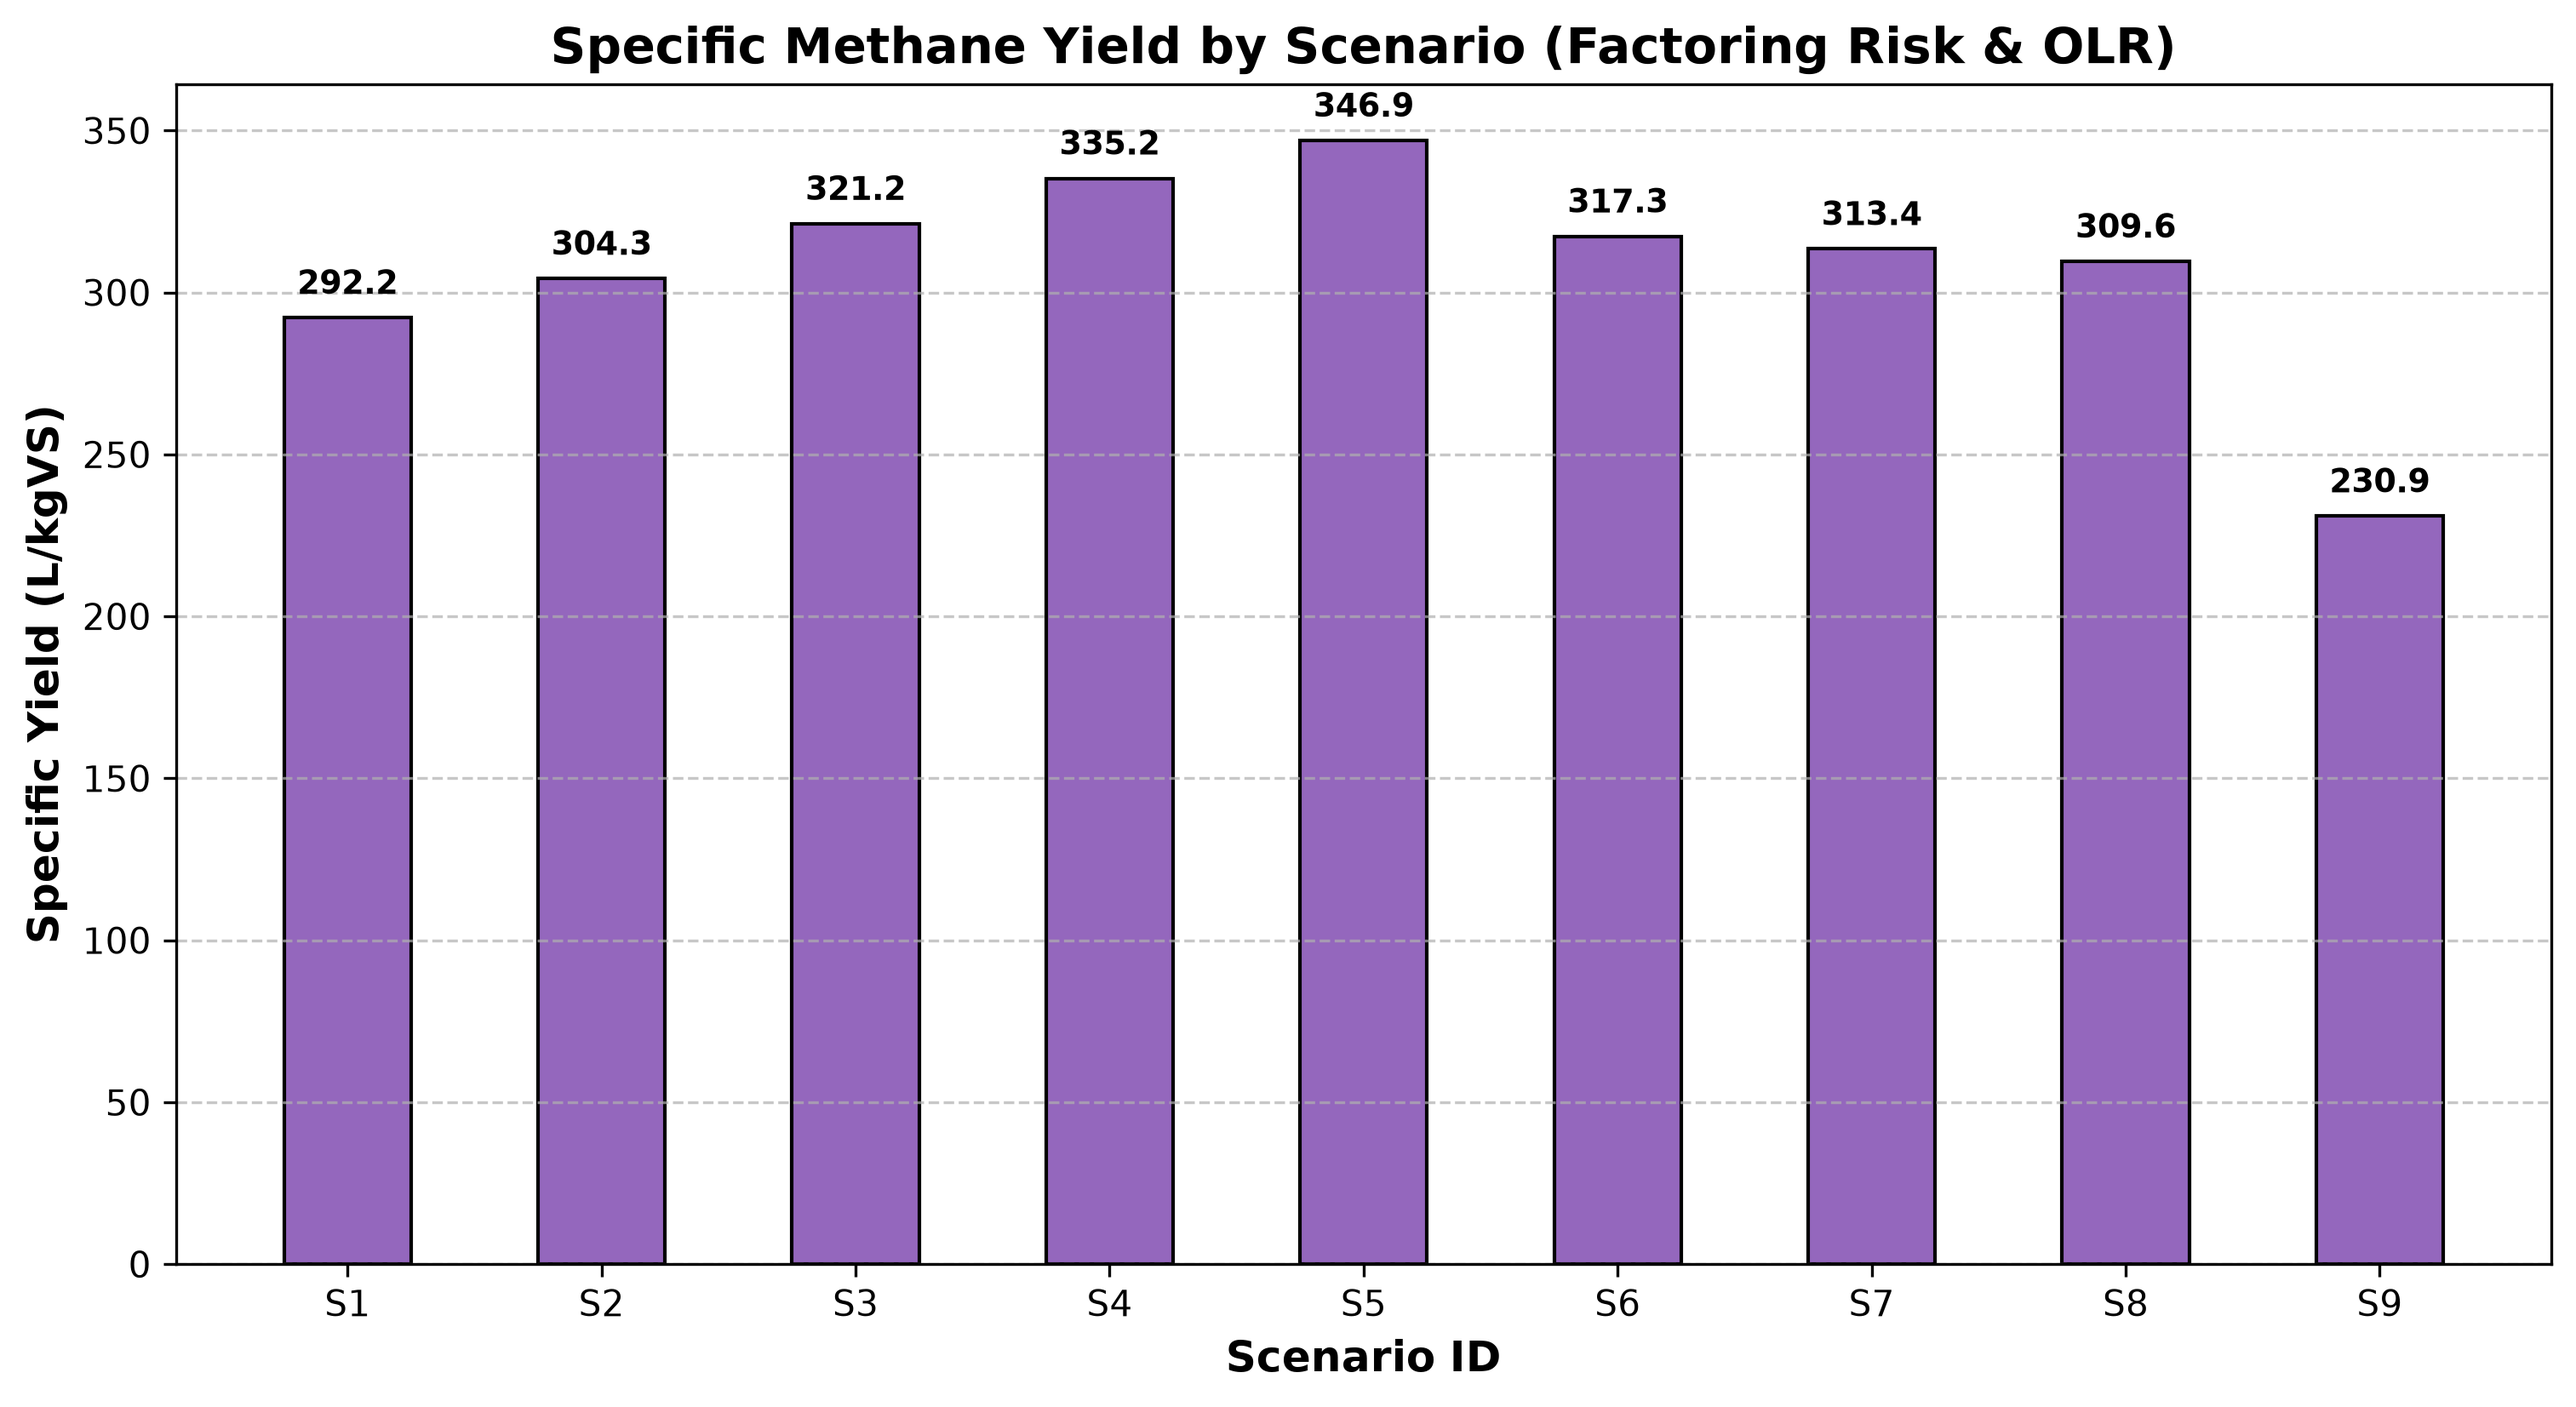
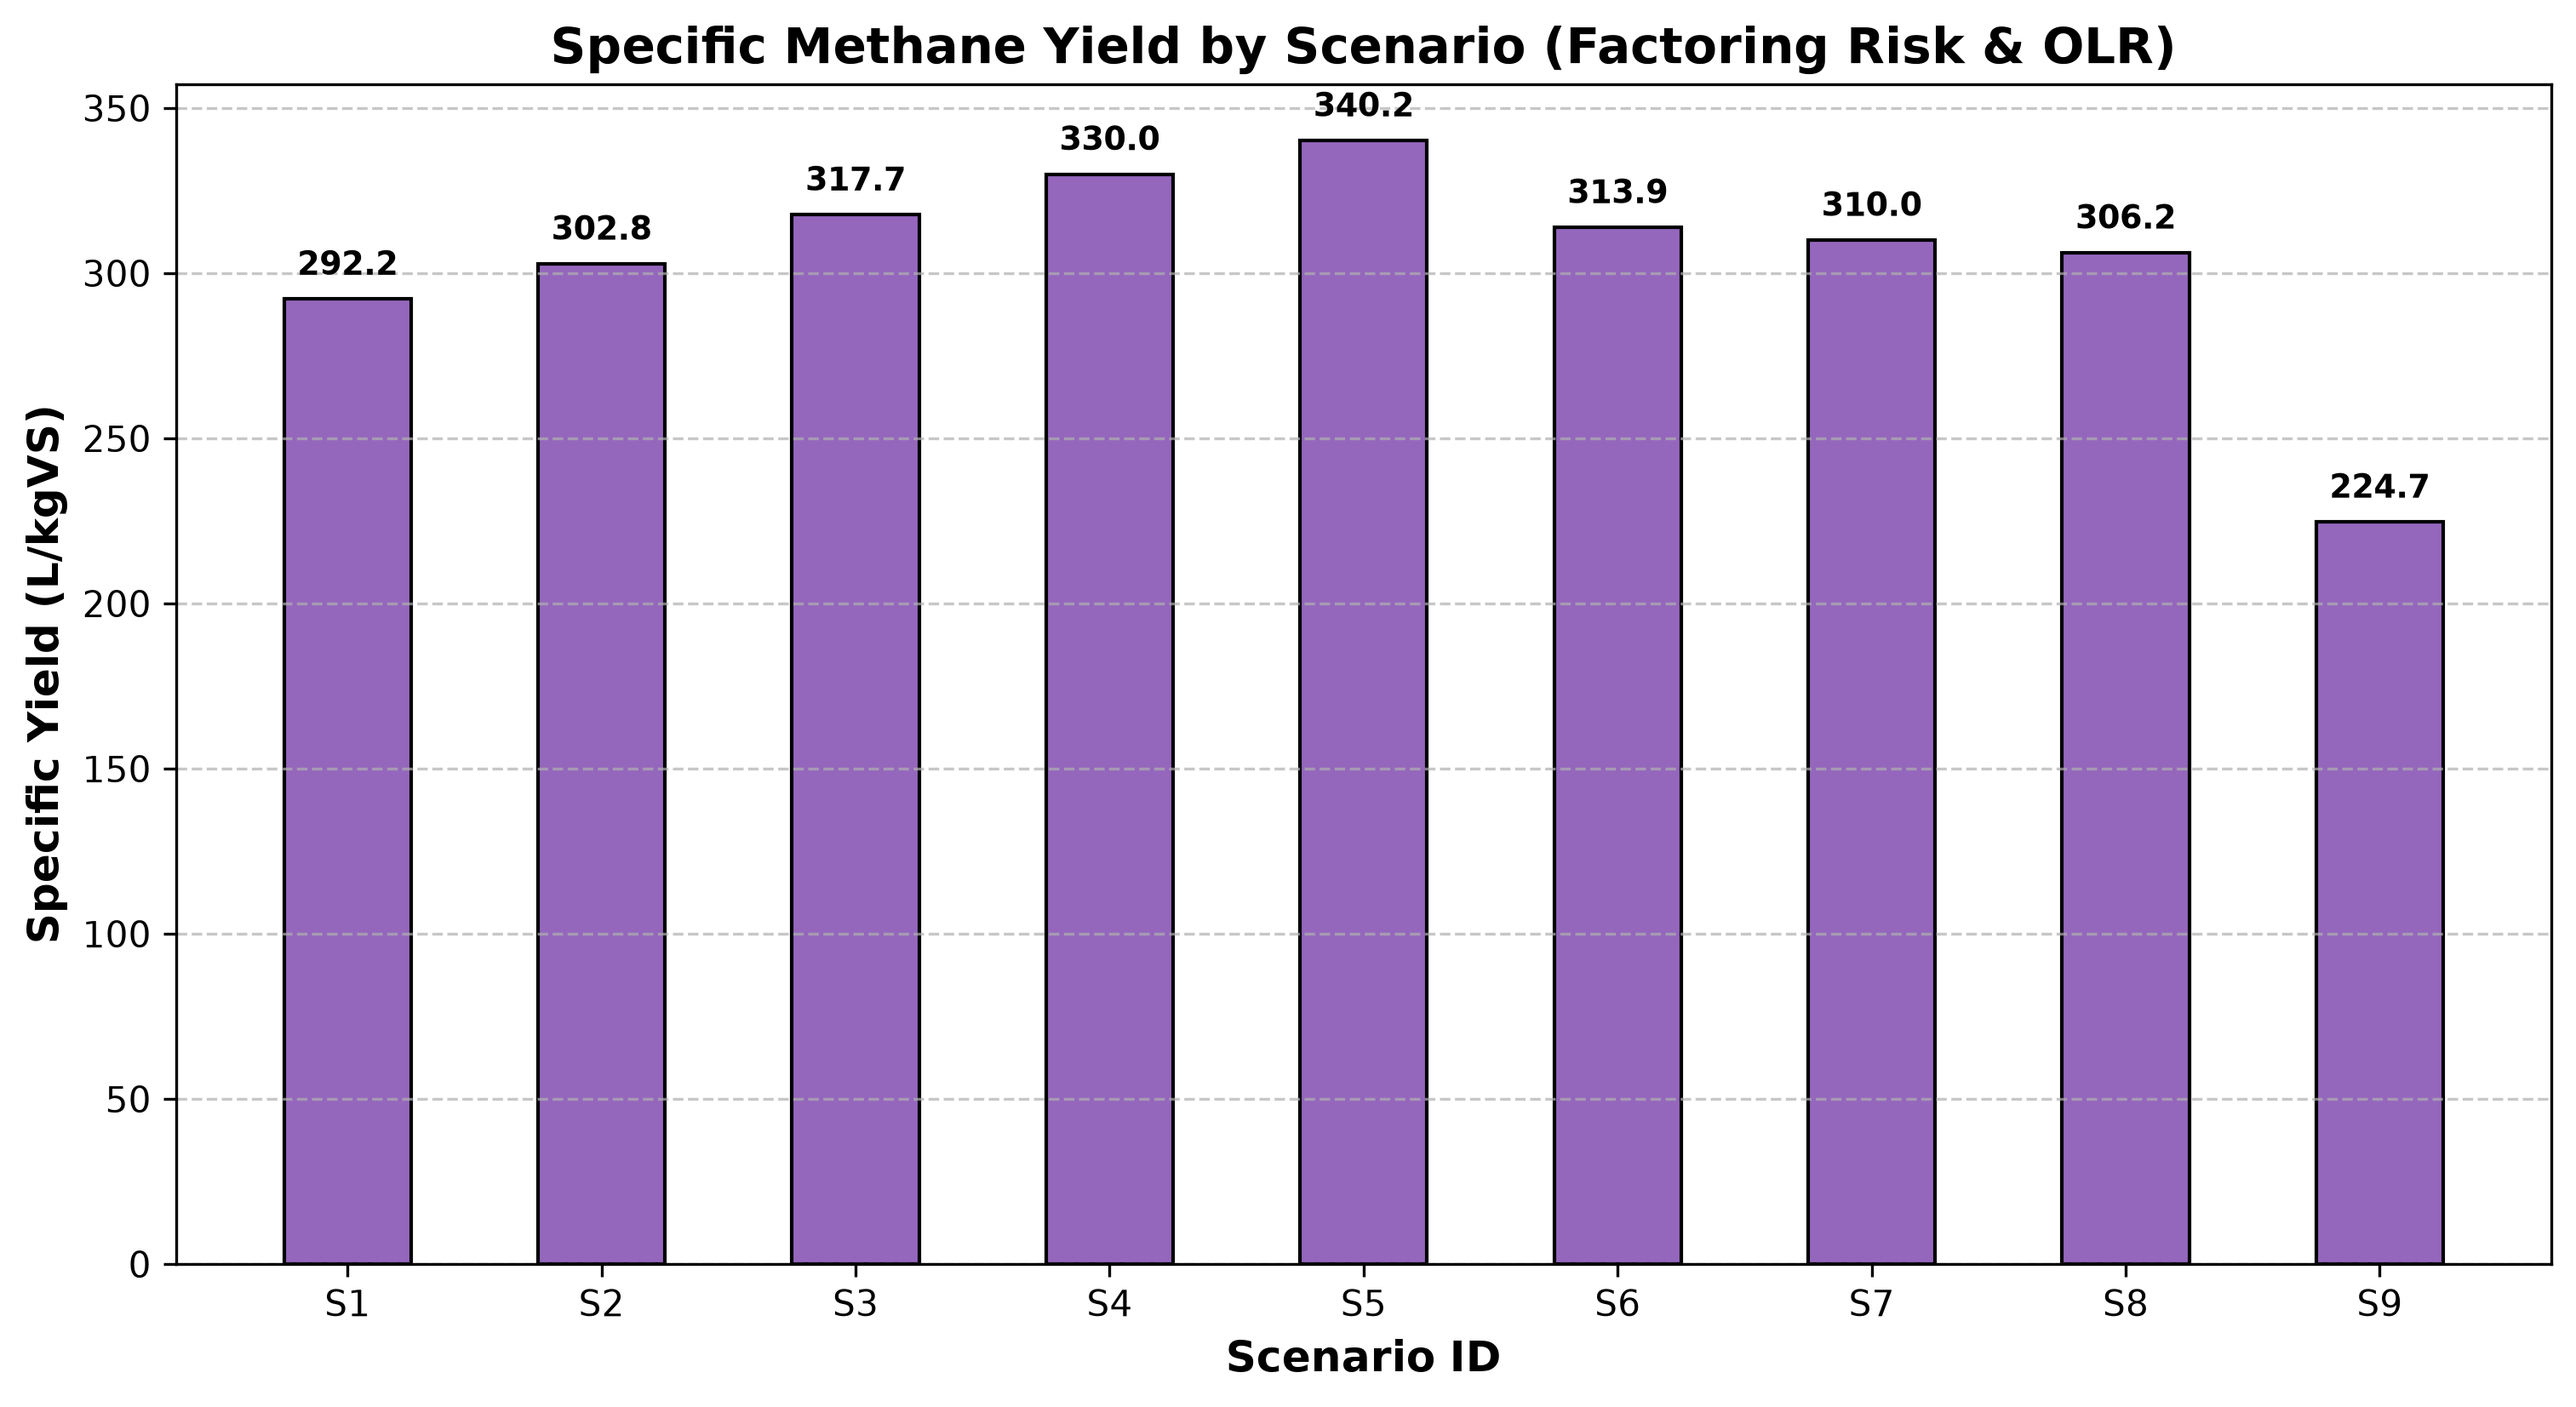
updated alpha FAN to match other sim

diff --git a/AD/digester.py b/AD/digester.py
@@ -132,6 +132,7 @@ class Digester:
         thresholds = config["RISK_THRESHOLDS"]
         weights = config["STABILITY_WEIGHTS"]
         conditions = config["DIGESTER_CONDITIONS"]
+        calib = config["DIGESTER_CALIBRATION"]
 
         olr_scaling_factor = current_olr / 2.5 # NOTE 2.5 IS THE OLR FOR BASELINE (S1)
         base_fan = conditions["fan_actual"] * olr_scaling_factor
@@ -139,7 +140,8 @@ class Digester:
         # Formula 18: FAN_pretreated = FAN_control * (1 + alpha_FAN * A_protein)
         a_protein = self.pretreatment.A.get("protein", 0.0)
         # ! ASSUMED VALUE
-        fan_treated = base_fan * (1.0 + (0.20 * a_protein)) 
+        fan_treated = base_fan * (1.0 + (calib["alpha_FAN"] * a_protein))
+        # print(calib["alpha_FAN"])
         
         # formula 33 & 34: VFA and ammonia risk
         r_vfa = (conditions["vfa_actual"] * olr_scaling_factor) / thresholds['vfa_crit']

diff --git a/data/config.py b/data/config.py
@@ -96,13 +96,19 @@ DIGESTER_BASELINES = {
 }
 
 DIGESTER_CALIBRATION = {
-    'alpha_SCOD': 0.80,   # from Dr. Bita's sim
-    'alpha_hyd': 0.30,    # Assumed: FPSI to hydrolysis rate multiplier
-    'alpha_lambda': 0.20,  # Assumed: FPSI to lag phase reduction multiplier
+    # from Dr. Bita's sim
+    'alpha_SCOD': 0.80,
+    "alpha_sugar": 1.20,
+    "alpha_FAN": 0.70,
+    "alpha_TAN": 0.20,
+    "alpha_hyd": 1.50,
+    "alpha_lambda": 0.55,
+
+    # assumed values
     'scod_conversion_factor': 0.15, # Assumed: How effectively FPSI converts particulate COD to SCOD
-    'purity_conversion_factor': 0.05, # Assumed - used for calculating CH4 purity, to be verified
+    'purity_conversion_factor': 0.05, # Assumed - used for calculating CH4 purity, to be verified/changed
     # system constants
-    'LHV_CH4': 35.8,
+    'LHV_CH4': 35.8, # from formula list
     'ETA_CHP': 0.35
 }
 

diff --git a/README.md b/README.md
@@ -28,11 +28,7 @@ VS Marketplace Link: https://marketplace.visualstudio.com/items?itemName=aaron-b
 ### CLasses
 #### Feedstock
 - **Description**: This is where all the materials/feedstocks amount lives before any AD or pretreatment occurs. Transforms operational inputs into volatile solid masses that the bacterial kinetics models require to compute methane generation.
-
-- **Inputs**: 
-
-- **Outputs**: 
-
+- **Presented Formulas**: 1, 2, 3, 4, 6, 7
 
 #### Pretreatment
 - **Description**: Translates physical operational conditions (temperature, pH, reaction time, and enzyme dosage) into a representation of the effectiveness of the degraded waste. Computes 4 specific response factors for each organic matter class.
@@ -48,6 +44,9 @@ VS Marketplace Link: https://marketplace.visualstudio.com/items?itemName=aaron-b
 - **Inputs**: 
 
 - **Outputs**: methane yield, kinetic shifts, and energy recovery
+
+> [!NOTE] Presented formulas refer to the 'Required Formula List for the Simulation' given at the start of this internship
+
 
 
 ```
